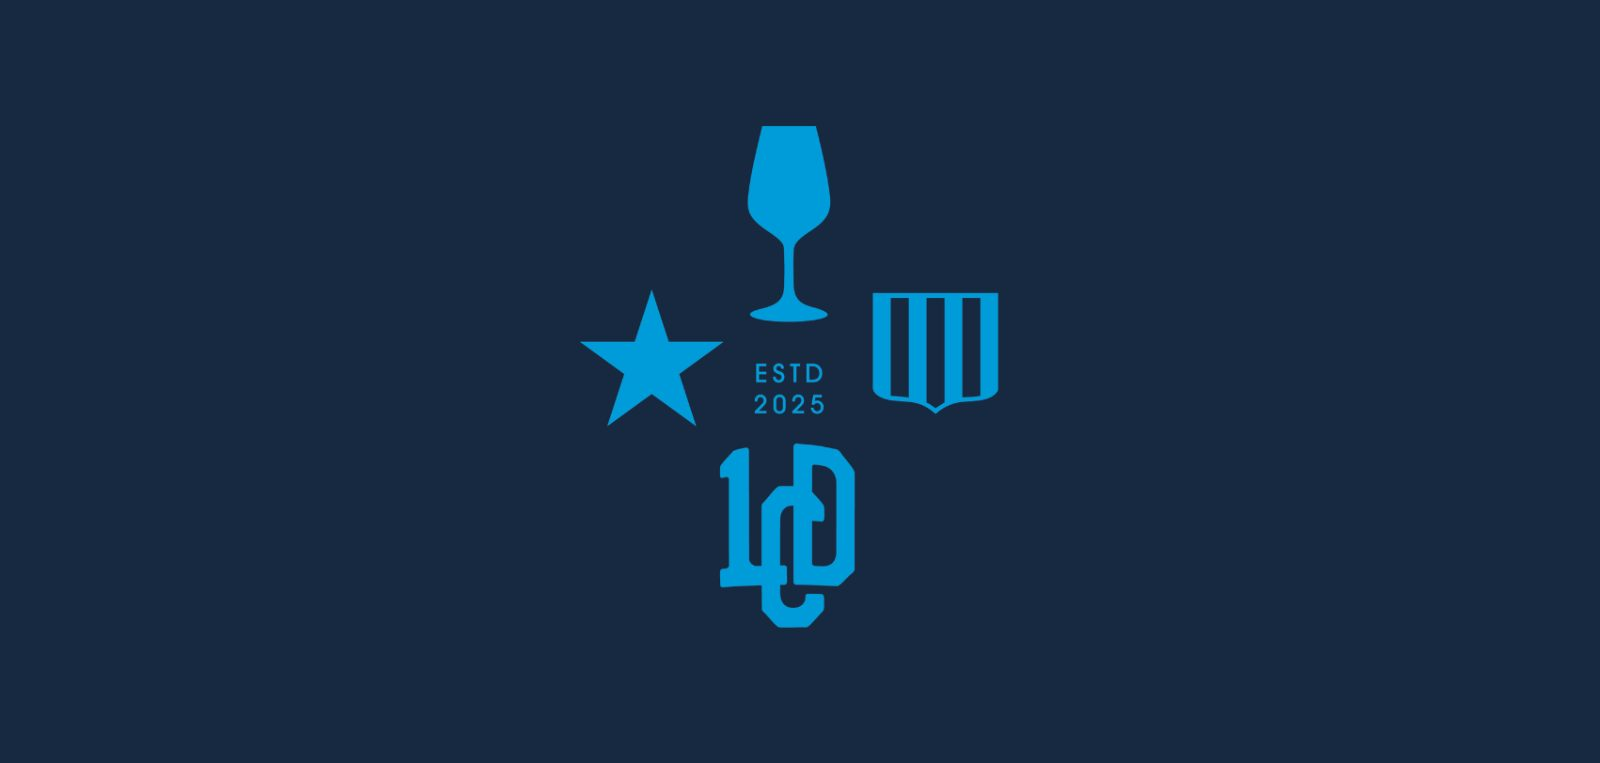
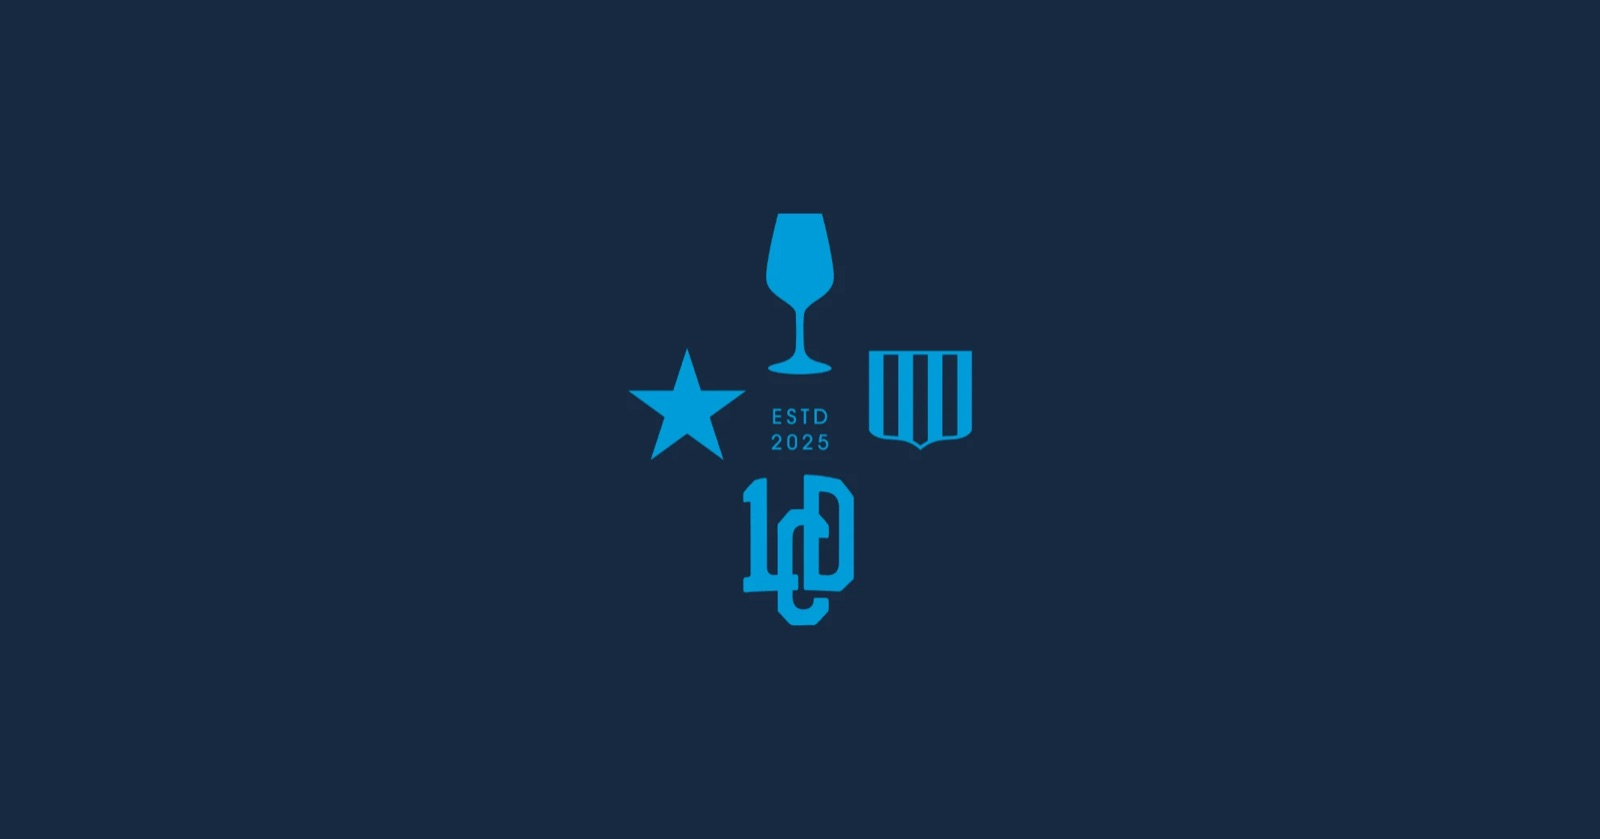
LACADÉ: reemplaza la última imagen por la versión de mayor resolución

Changed region(s): [[0.375, 0.1507, 0.625, 0.844]]

diff --git a/index.html b/index.html
@@ -2443,7 +2443,7 @@ const PROJECTS = [
       { type:'image', src:'/assets/lacade/10.jpg', w:1600, h:900, alt:'Sistema de logos de LACADÉ en celeste sobre fondo claro: logotipo, monograma, sellos y caligrafía "Bodegón"' },
       { type:'image', src:'/assets/lacade/11.jpg', w:1600, h:900, alt:'Ñoquis con rayas celestes en salsa cremosa sobre una mesa de LACADÉ, junto al afiche "Pasión"' },
       { type:'image', src:'/assets/lacade/12.jpg', w:1600, h:900, alt:'Patrón tipográfico de LACADÉ en azul marino sobre fondo celeste' },
-      { type:'image', src:'/assets/lacade/13.jpg', w:1600, h:763, alt:'Marca secundaria de LACADÉ en celeste sobre azul marino: copa, estrella, escudo y monograma LCD con "ESTD 2025"' } ] },
+      { type:'image', src:'/assets/lacade/13.jpg', w:1600, h:839, alt:'Marca secundaria de LACADÉ en celeste sobre azul marino: copa, estrella, escudo y monograma LCD con "ESTD 2025"' } ] },
   { slug:'proyecto-03', name:'Proyecto 03', year:'2025', type:{ es:'Branding', en:'Branding' }, accent:'#0012FF',
     cards:[2], // qué card(s) del home abren este proyecto (0-14, en el orden del HTML)
     client:'Cliente', services:{ es:'Branding, dirección de arte', en:'Branding, art direction' },
